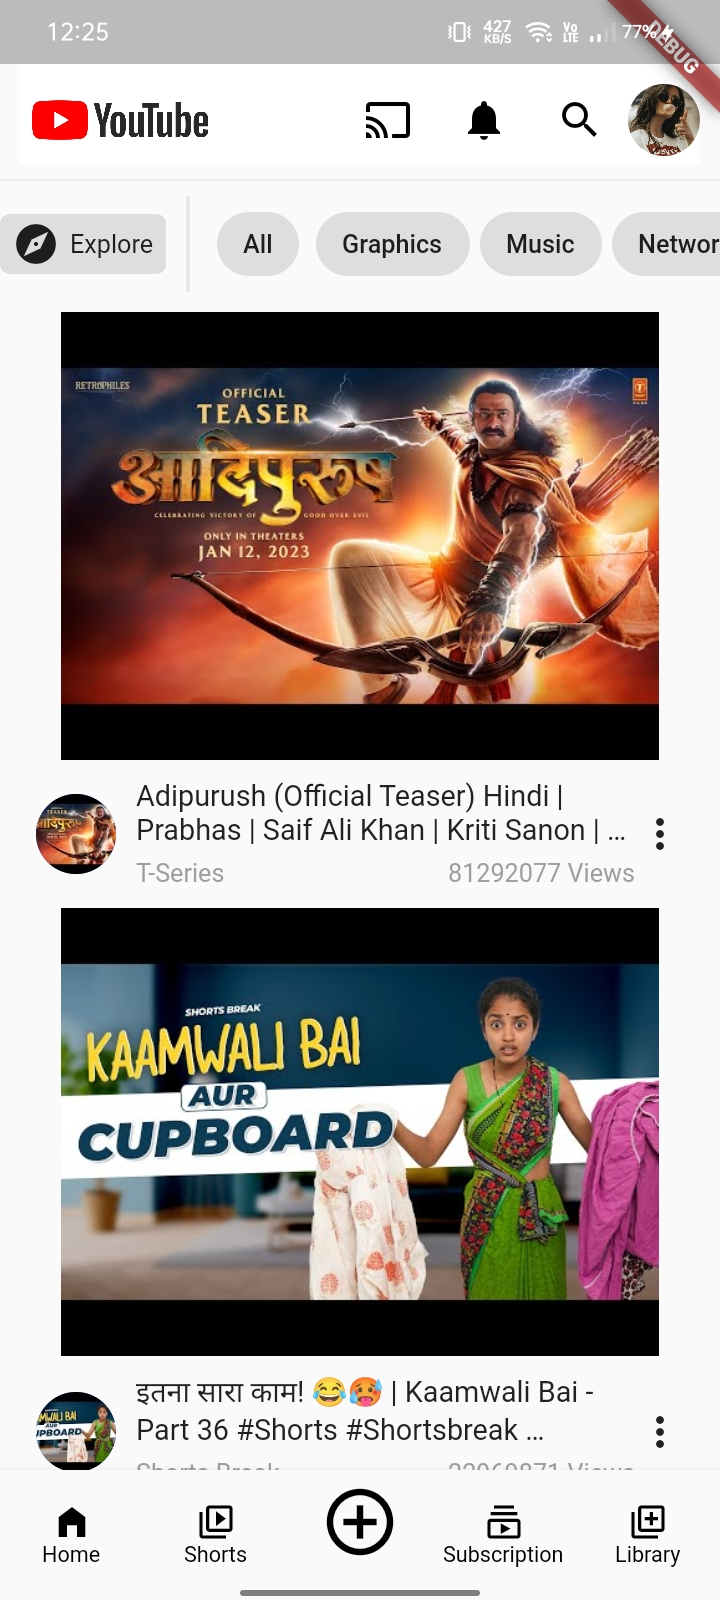
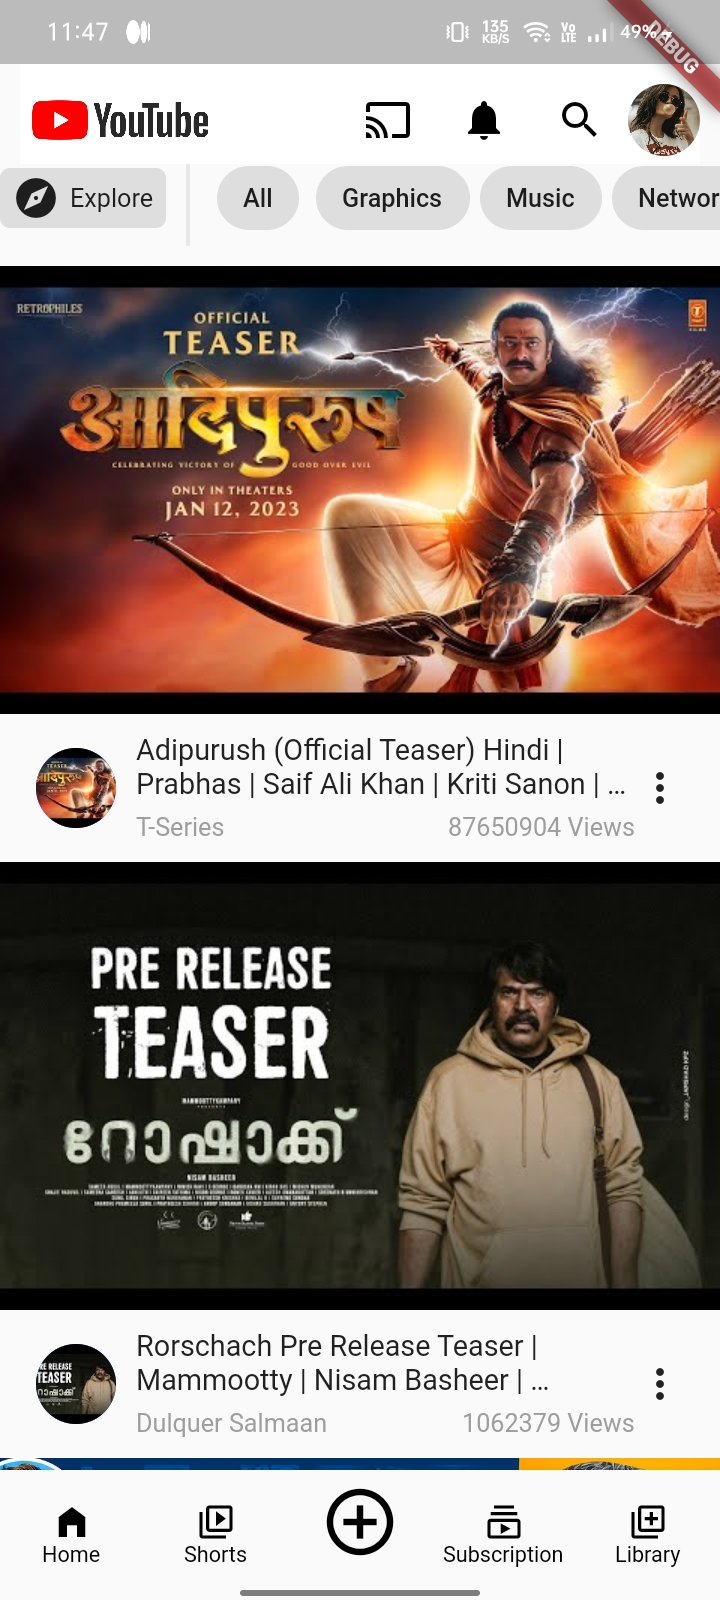
Fixed some minor UI bugs

diff --git a/lib/presentation/video_details/video_details_screen.dart b/lib/presentation/video_details/video_details_screen.dart
@@ -75,7 +75,8 @@ class VideoDetailsScreen extends StatelessWidget {
       required this.channelAvatar,
       required this.likeCount,
       required this.viewCount,
-      required this.publishedAt});
+      required this.publishedAt,
+      required this.imgUrl});
   final String videoId;
   final String channelName;
   final String title;
@@ -83,6 +84,7 @@ class VideoDetailsScreen extends StatelessWidget {
   final String likeCount;
   final String viewCount;
   final String publishedAt;
+  final String imgUrl;
 
   @override
   Widget build(BuildContext context) {
@@ -220,15 +222,19 @@ class VideoDetailsScreen extends StatelessWidget {
               ],
             ),
           ),
+          k10Height,
+          k10Height,
           ListView.builder(
             physics: const NeverScrollableScrollPhysics(),
             shrinkWrap: true,
             itemBuilder: (context, index) {
               return HomeVideoListWidget(
-                  imgUrl: "",
-                  screenDimension: screenDimension,
-                  channelAvatar: "",
-                  videoID: "");
+                imgUrl: imgUrl,
+                screenDimension: screenDimension,
+                channelAvatar: channelAvatar,
+                videoID: videoId,
+                title: title,
+              );
             },
             itemCount: 10,
           ),

diff --git a/lib/presentation/home/widgets/home_video_widget.dart b/lib/presentation/home/widgets/home_video_widget.dart
@@ -16,7 +16,8 @@ class HomeVideoListWidget extends StatelessWidget {
     required this.screenDimension,
     required this.channelAvatar,
     required this.videoID,
-    this.likeCount, this.publishedAt,
+    this.likeCount,
+    this.publishedAt,
   }) : super(key: key);
   final String? imgUrl;
   final String? title;
@@ -45,6 +46,8 @@ class HomeVideoListWidget extends StatelessWidget {
                   likeCount: likeCount.toString(),
                   viewCount: viewCount.toString(),
                   publishedAt: publishedAt.toString(),
+                  imgUrl: imgUrl.toString(),
+                 
                 ),
               ),
             );
@@ -54,10 +57,10 @@ class HomeVideoListWidget extends StatelessWidget {
             width: double.infinity,
             decoration: BoxDecoration(
               image: DecorationImage(
-                image: NetworkImage(
-                  imgUrl.toString(),
-                ),
-              ),
+                  image: NetworkImage(
+                    imgUrl.toString(),
+                  ),
+                  fit: BoxFit.cover),
             ),
           ),
         ),
